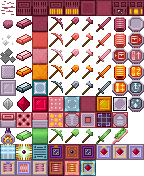
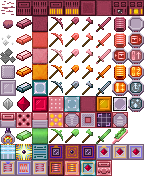
ended 1.10

Changed region(s): [[0.6667, 0.9091, 0.7778, 1.0]]

diff --git a/split_textures.py b/split_textures.py
@@ -18,7 +18,7 @@ TEXTURE_FILES = [
     [MT('htfurn_front'), MT('htfurn_top_unlit'), MT('htfurn_sides'), MT('htfurn_top_lit'), MT('vulcan_sides'), MT('vulcan_top'), MT('htr_solar_top'), MT('vulcan_front')],
     [MT('item_heatunit'), MT('ingot_tcha'), MT('block_tcha'), MT('tool_pick_tcha'), MT('tool_shovel_tcha'), MT('tool_axe_tcha'), MT('tool_sword_tcha'), MT('tool_ore_saw')],
     [MT('hray_sides'), MT('hray_front'), MT('hray_back'), MT('rayref_sides'), MT('rayref_front'), MT('rayref_back'), MT('tbox_sides'), MT('tbox_front'), MT('tbox_back')],
-    [MT('tdis_sides'), MT('tdis_front'), MT('tdis_back'), MT('raw_heater_sides'), MT('tste_heater_sides'), MT('cgls_heater_sides')]
+    [MT('tdis_sides'), MT('tdis_front'), MT('tdis_back'), MT('raw_heater_sides'), MT('tste_heater_sides'), MT('cgls_heater_sides'), MT('balloyer_front')]
 ]
 
 with Image(filename=SOURCE_FILE) as source:
